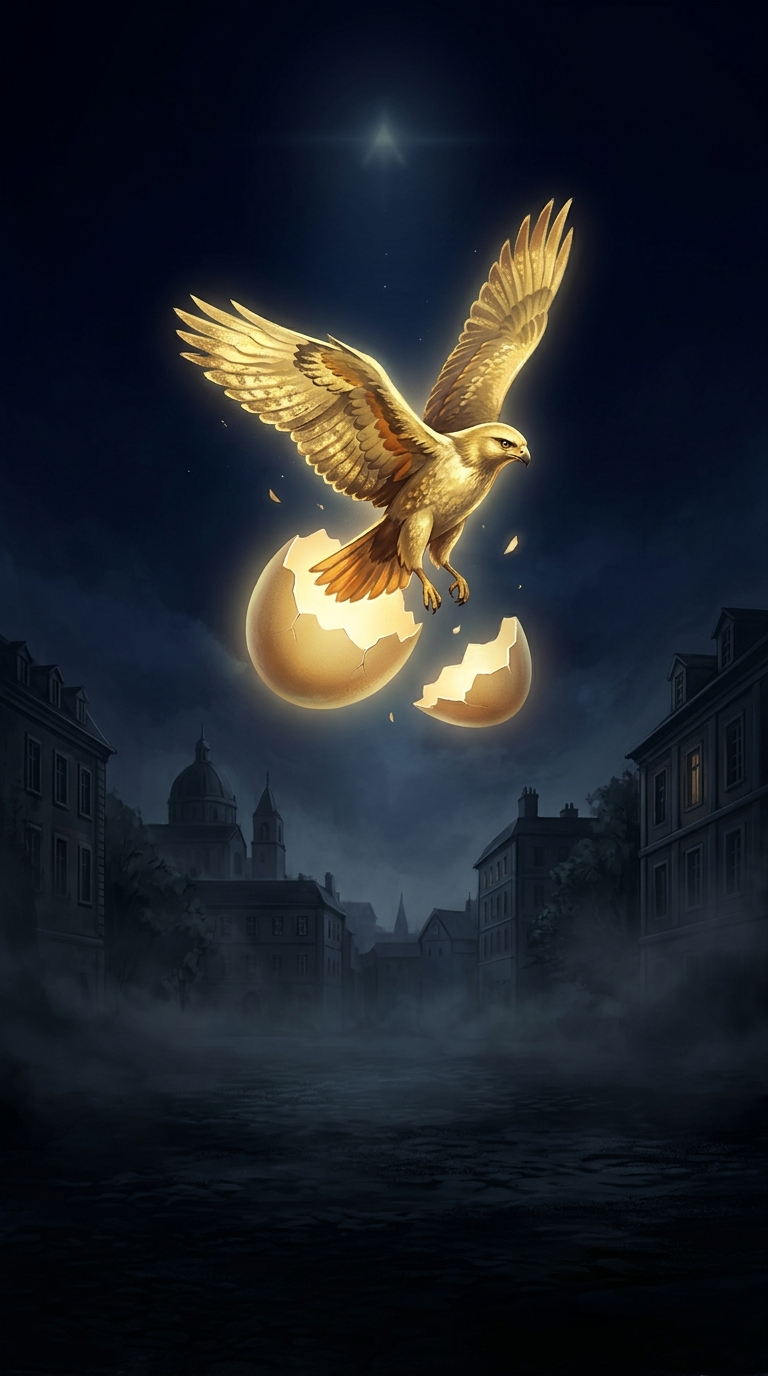
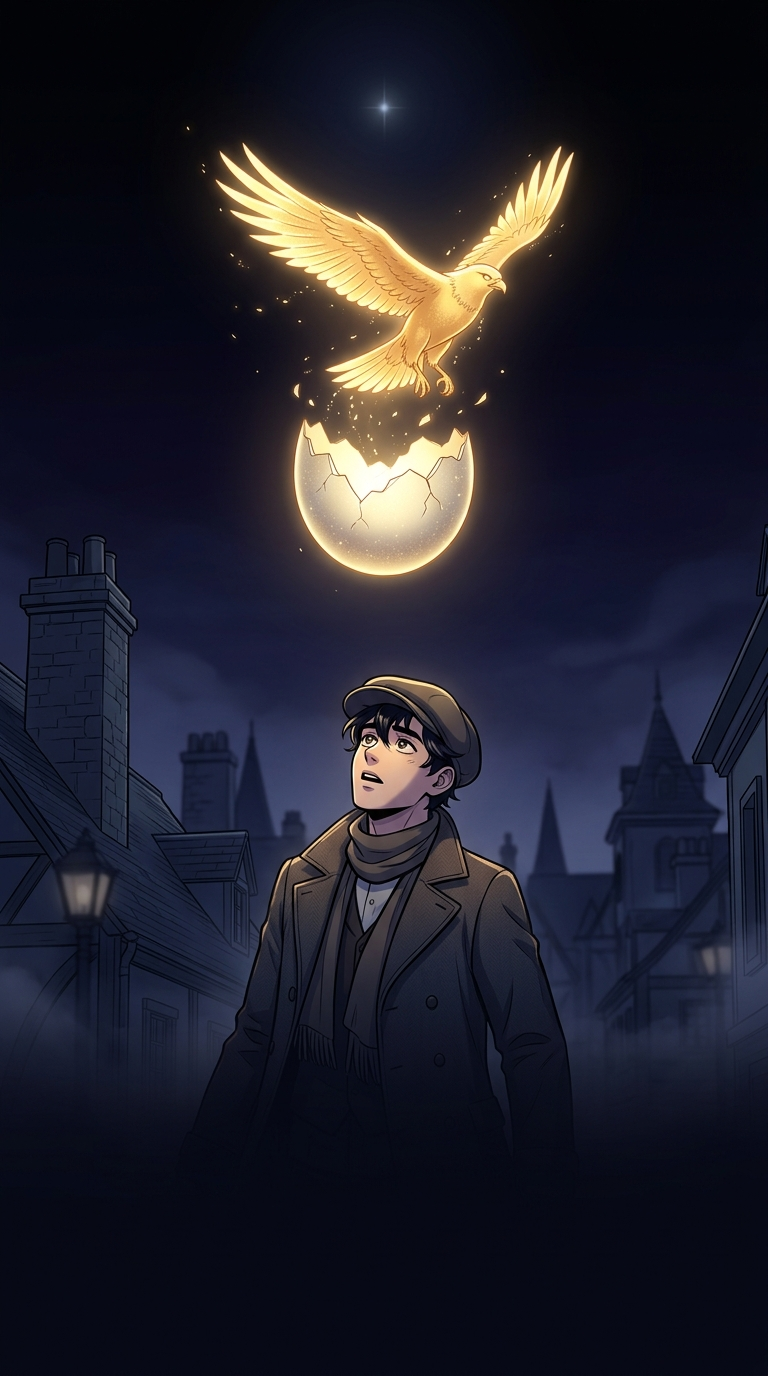
데미안 웹툰 전면 개편 (요즘 웹툰 화풍 + 위키 줄거리 22컷)
- 화풍: 모던 시네마틱 → 한국 웹툰(만화) 셀셰이딩 스타일로 전환
- 줄거리: 위키백과 줄거리 기반 22컷, 장면 사이 연결 컷으로 흐름 끊김 해소
- webtoon/demian/ 23장 재생성 (인물 앵커 참조로 일관성 유지)
- 캐시버스트 ?v=260614k

diff --git a/webtoon_demian.html b/webtoon_demian.html
@@ -57,7 +57,7 @@
 
 <div class="wt-col">
   <section class="wt-cover">
-    <img src="webtoon/demian/00_cover.png" alt="데미안">
+    <img src="webtoon/demian/00_cover.png?v=260614k" alt="데미안">
     <div class="scr"></div>
     <div class="tx">
       <h1 class="serif">데미안</h1>
@@ -80,24 +80,30 @@
 
 <script>
 const CUTS=[
-  {img:'01',c:`나에게는 두 세계가 있었다. 밝고 정결한 아버지의 집, 그리고 그 문턱 너머 — 하녀와 일꾼, 유령 이야기와 추문이 뒤끓는 <b>어둠의 세계</b>.<span class="small">열 살의 싱클레어는 그 두 세계의 경계에서 자랐다.</span>`},
-  {img:'02',c:`재단사의 아들 <b>프란츠 크로머</b> 앞에서, 나는 환심을 사려 거짓을 지어냈다. <span class="dlg">“물방앗간 과수원에서 사과 한 자루를 훔친 적도 있어.”</span><span class="small">— 한낱 허풍이었다.</span>`},
-  {img:'03',c:`<span class="dlg">“그 일을 주인한테 일러바칠까? 입막음으로 2마르크를 내놔.”</span> 크로머는 거짓을 빌미로 나를 옭아맸다. 밝은 집은 멀어지고, 나는 어둠에 사로잡혀 유령처럼 떨었다.`},
-  {img:'04',c:`그 무렵 우리 학교에 한 아이가 전학 왔다. 부유한 미망인의 아들 — <b>막스 데미안</b>. 또래 같지 않게 어른스럽고, 누구의 눈치도 보지 않는 조용한 아이였다.`},
-  {img:'05',c:`데미안은 카인과 아벨의 이야기를 뒤집어 말했다. <span class="dlg">“카인의 표적은 저주가 아니라, 남다른 자에게 찍힌 표일지도 몰라.”</span><span class="small">두려움을 모르는 강한 자의 징표 — 나는 처음 듣는 생각에 전율했다.</span>`},
-  {img:'06',c:`어느 날부터, 크로머가 더는 나를 찾지 않았다. 데미안이 그를 만나 무언가를 말한 것이다. <span class="small">나를 짓누르던 어둠이 거짓말처럼 걷혔다.</span>`},
-  {img:'07',c:`데미안은 또 다른 진실을 일러 주었다. <span class="dlg">“네 안에서 우러나는 목소리를 따라야 해. 밝고 허락된 세계만이 전부가 아니야 — 우리가 어둠이라 부르는 절반까지 끌어안아야 비로소 온전해진다.”</span><span class="small">나는 처음으로, 스스로 생각하는 법을 배우기 시작했다.</span>`},
-  {img:'08',c:`견신례를 치르고, 나는 다른 도시의 학교로 떠나야 했다. 데미안은 보이지 않았다. <span class="small">나는 또다시 혼자였다.</span>`},
-  {img:'09',c:`낯선 도시에서 나는 술과 객기에 빠져들었다. 스스로를 더럽히며 어둠 속으로 굴러떨어지는 동안에도, 가슴 깊은 곳에서는 무언가가 끊임없이 나를 부르고 있었다.`},
-  {img:'10',c:`어느 봄날, 공원에서 한 소녀를 보았다. 말 한마디 건네지 못했지만 나는 그녀를 <b>베아트리체</b>라 이름 붙였다. <span class="small">그 환영을 그리려 붓을 들면서, 나는 진창에서 천천히 몸을 일으켰다.</span>`},
-  {img:'11',c:`그리고 또 한 폭 — 알을 깨고 솟아오르는 <b>한 마리 새</b>를 그렸다. 매를 닮은 그 새의 머리는 빛나는 푸른 하늘을 향하고 있었다. 나는 그 그림을 옛 벗 데미안에게 부쳤다.`},
-  {img:'12',c:`얼마 뒤, 책갈피에 끼인 쪽지 한 장. <span class="dlg">“새는 알을 깨고 나오려 싸운다. 알은 세계다. 태어나려는 자는 한 세계를 부수어야 한다. 새는 신을 향해 날아간다. 그 신의 이름은 <b>아브락사스</b>.”</span>`},
-  {img:'13',c:`오르간 연주자 <b>피스토리우스</b>가 아브락사스를 일러 주었다. <span class="dlg">“선과 악을 함께 품은 신. 우리가 두려워하는 어둠마저도 신성의 한 조각이다.”</span><span class="small">자기 자신에게 이르는 길 — 그것만이 참된 운명이었다.</span>`},
-  {img:'14',c:`마침내 다시 만난 데미안, 그리고 그의 어머니 <b>에바 부인</b>. 그녀의 이마에서 나는 그 옛날의 표적을 알아보았다. <span class="small">표적을 지닌 자들끼리, 다가오는 운명을 향해 조용히 모여들고 있었다.</span>`},
-  {img:'15',c:`알을 깨려는 것은 나 혼자만이 아니었다. 표적을 지닌 이들은 느끼고 있었다 — <span class="dlg">“낡은 세계가 무너지려 한다. 거대한 새 한 마리가 알을 깨고 솟아오르려 한다.”</span><span class="small">이윽고 온 유럽에 전쟁의 먹구름이 몰려왔다.</span>`},
-  {img:'16',c:`전쟁이 터지고, 나는 부상한 채 야전 병원에 누웠다. 곁에는 데미안이 있었다. <span class="dlg">“언젠가 네 안의 나를 불러야 할 때가 오면, 귀 기울여 들어라.”</span><span class="small">아침에 그는 없었다. 그러나 거울 속 내 얼굴은 — 이제 나의 인도자, 데미안을 닮아 있었다.</span>`},
+  {img:'01',c:`싱클레어는 따뜻한 부모의 집, 신앙과 사랑이 가득한 <b>밝은 세계</b>에서 자랐다. 그러나 그 울타리 너머 — 거친 말과 무서운 소문이 떠도는 <b>어둠의 세계</b>가 늘 그를 잡아끌었다.`},
+  {img:'02',c:`두 세계 사이에서 흔들리던 어느 날, 싱클레어는 가난한 동네 아이들 틈에 끼어 어두운 골목을 기웃거렸다.`},
+  {img:'03',c:`거기서 만난 불량소년 <b>프란츠 크로머</b>. 환심을 사려고 싱클레어는 거짓말을 지어냈다. <span class="dlg">“과수원에서 사과를 한 자루나 훔친 적도 있어.”</span><span class="small">— 그저 허풍이었다.</span>`},
+  {img:'04',c:`크로머는 그 거짓말을 트집 잡았다. <span class="dlg">“주인한테 일러바칠까? 입막음할 돈을 가져와.”</span> 그날부터 싱클레어의 어둠이 시작됐다.`},
+  {img:'05',c:`협박에 못 이겨, 싱클레어는 부모의 돈에까지 손을 댔다. 죄책감이 그를 갉아먹었지만 차마 부모에게는 털어놓을 수 없었다. <span class="small">밝은 세계에서 그는 점점 유령이 되어갔다.</span>`},
+  {img:'06',c:`그 무렵, 학교에 한 소년이 전학 왔다. 또래와는 전혀 다른, 어른처럼 침착하고 신비로운 아이 — <b>막스 데미안</b>.`},
+  {img:'07',c:`데미안은 싱클레어의 고통을 꿰뚫어 보았고, 성서를 뒤집어 들려주었다. <span class="dlg">“카인의 표적은 저주가 아니라, 신에게서 홀로 선 강한 자의 징표일지도 몰라.”</span><span class="small">선과 악의 경계가 처음으로 흔들렸다.</span>`},
+  {img:'08',c:`그리고 어느 날, 크로머가 거짓말처럼 싱클레어의 곁에서 사라졌다. 데미안이 손을 쓴 것이다. <span class="small">짓누르던 어둠이 걷히고, 싱클레어는 비로소 숨을 쉬었다.</span>`},
+  {img:'09',c:`데미안은 거듭 일러 주었다. <span class="dlg">“네 안의 목소리를 따라야 해. 우리가 어둠이라 부르는 절반까지 끌어안아야 비로소 온전해진다.”</span><span class="small">싱클레어는 부모의 밝은 세계로부터 홀로 독립하기 시작했다.</span>`},
+  {img:'10',c:`이제 스스로 가치를 찾아야 한다는 책임의 무게를 안고, 싱클레어는 고향을 떠나 다른 도시의 고등학교로 향했다. 데미안은 곁에 없었다.`},
+  {img:'11',c:`고독과 냉소 속에서 싱클레어는 불량한 패거리와 어울려 술과 향락에 빠져들었다. 금지된 어둠을 맘껏 맛보는 동안, 그의 몸과 마음은 망가져 갔다.`},
+  {img:'12',c:`그러던 어느 날, 한 소녀를 보았다. 말 한마디 못 건넸지만 그는 그녀를 <b>베아트리체</b>라 부르며 새로운 이상으로 삼았다. <span class="small">절제와 정결을 되찾으며, 싱클레어는 진창에서 천천히 몸을 일으켰다.</span>`},
+  {img:'13',c:`그리움 끝에, 싱클레어는 <b>알을 뚫고 솟아오르는 새</b>를 그렸다. 매를 닮은 그 새는 빛을 향하고 있었다. 그는 그 그림을 옛 벗 데미안에게 부쳤다.`},
+  {img:'14',c:`데미안의 답장이 돌아왔다. <span class="dlg">“새는 알을 깨고 나오려 싸운다. 알은 세계다. 태어나려는 자는 한 세계를 부수어야 한다. 새는 신을 향해 날아간다 — 그 신의 이름은 <b>아브락사스</b>.”</span>`},
+  {img:'15',c:`아브락사스. 신이자 악마라는 그 이름의 의미를 찾아 싱클레어는 오래 방황했다. 잠재웠던 욕망이 다시 그를 흔들었다.`},
+  {img:'16',c:`오르간 연주자 <b>피스토리우스</b>가 그 비밀을 일러 주었다. <span class="dlg">“아브락사스는 신이면서 동시에 악마다. 두려워하는 어둠마저 신성의 한 조각이지.”</span>`},
+  {img:'17',c:`어느 밤 꿈에서, 싱클레어는 어머니이자 연인이며 동시에 낯선 여인인 한 영상과 마주했다. <span class="small">야곱이 천사와 씨름하듯 그 환영과 씨름하며, 그는 선과 악이 자기 안에서 하나로 녹아드는 일체감 — 아브락사스를 체험했다.</span>`},
+  {img:'18',c:`이윽고 싱클레어는 과거의 의식에 머무는 피스토리우스의 한계를 보았고, 둘은 갈라섰다. <span class="dlg">“운명이란, 자기 자신에게로 가 그 운명을 홀로 살아내는 것.”</span><span class="small">감당해야 할 고독은 깊었다.</span>`},
+  {img:'19',c:`대학에 진학한 싱클레어는 휩쓸리는 무리를 떠나, 홀로 니체를 읽으며 고독하지만 자유로운 자기만의 세계를 지켰다.`},
+  {img:'20',c:`그리고 데미안과 다시 만났다. 그의 어머니 <b>에바 부인</b> — 싱클레어는 그녀에게 사랑에 빠졌다. <span class="small">그녀의 얼굴은, 그가 꿈속에서 그토록 그리던 아브락사스의 얼굴이었다.</span>`},
+  {img:'21',c:`에바 부인의 집에는 이마에 같은 ‘표적’을 지닌 이들이 모여들었다. 자유롭고 독립된 영혼들의 공동체. 그러나 그들 모두 다가오는 거대한 폭풍을 예감하고 있었다. <span class="dlg">“낡은 세계가 무너지려 한다.”</span>`},
+  {img:'22',c:`마침내 전쟁이 터졌다. 싱클레어는 운명을 대면하러 전쟁터로 나갔고, 큰 부상을 입었다. 곁을 지킨 데미안이 작별을 속삭였다. <span class="dlg">“네 안의 나를 불러야 할 때가 오면, 귀 기울여라.”</span><span class="small">아침에 그는 없었다. 그러나 거울 속 얼굴은 이제 데미안을 닮아 있었다 — 그의 영혼은 마침내 자기 자신에 이르렀다.</span>`},
 ];
-document.getElementById('strip').innerHTML=CUTS.map(x=>`<section class="wt-cut"><img src="webtoon/demian/${x.img}.png" alt="" loading="lazy"><div class="scr"></div><div class="wt-cap serif">${x.c}</div></section>`).join('');
+document.getElementById('strip').innerHTML=CUTS.map(x=>`<section class="wt-cut"><img src="webtoon/demian/${x.img}.png?v=260614k" alt="" loading="lazy"><div class="scr"></div><div class="wt-cap serif">${x.c}</div></section>`).join('');
 const io=new IntersectionObserver(es=>es.forEach(e=>{if(e.isIntersecting)e.target.classList.add('in');}),{threshold:.18});
 document.querySelectorAll('.wt-cut').forEach(s=>io.observe(s));
 const prog=document.getElementById('prog');
